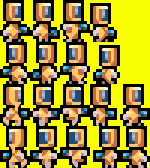
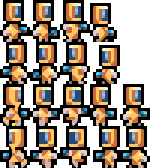
updated player sprites to be transparent

diff --git a/main.py b/main.py
@@ -57,28 +57,28 @@ class Player(pygame.sprite.Sprite):
             
         self.sprites = SpriteSheet("resources/player.png")
     
-        self.stillRight = self.sprites.image_at((0, 0, 30, 42), colorkey = (250, 255, 0))
-        self.stillLeft = self.sprites.image_at((0, 42, 30, 42), colorkey = (250, 255, 0))
+        self.stillRight = self.sprites.image_at((0, 0, 30, 42))
+        self.stillLeft = self.sprites.image_at((0, 42, 30, 42))
     
-        self.runningRight = (self.sprites.image_at((0, 84, 30, 42), colorkey = (250, 255, 0)),
-                    self.sprites.image_at((30, 84, 30, 42), colorkey = (250, 255, 0)),
-                    self.sprites.image_at((60, 84, 30, 42), colorkey = (250, 255, 0)),
-                    self.sprites.image_at((90, 84, 30, 42), colorkey = (250, 255, 0)),
-                    self.sprites.image_at((120, 84, 30, 42), colorkey = (250, 255, 0)))
+        self.runningRight = (self.sprites.image_at((0, 84, 30, 42)),
+                    self.sprites.image_at((30, 84, 30, 42)),
+                    self.sprites.image_at((60, 84, 30, 42)),
+                    self.sprites.image_at((90, 84, 30, 42)),
+                    self.sprites.image_at((120, 84, 30, 42)))
 
-        self.runningLeft = (self.sprites.image_at((0, 126, 30, 42), colorkey = (250, 255, 0)),
-                    self.sprites.image_at((30, 126, 30, 42), colorkey = (250, 255, 0)),
-                    self.sprites.image_at((60, 126, 30, 42), colorkey = (250, 255, 0)),
-                    self.sprites.image_at((90, 126, 30, 42), colorkey = (250, 255, 0)),
-                    self.sprites.image_at((120, 126, 30, 42), colorkey = (250, 255, 0)))
+        self.runningLeft = (self.sprites.image_at((0, 126, 30, 42)),
+                    self.sprites.image_at((30, 126, 30, 42)),
+                    self.sprites.image_at((60, 126, 30, 42)),
+                    self.sprites.image_at((90, 126, 30, 42)),
+                    self.sprites.image_at((120, 126, 30, 42)))
                     
-        self.jumpingRight = (self.sprites.image_at((30, 0, 30, 42), colorkey = (250, 255, 0)),
-                    self.sprites.image_at((60, 0, 30, 42), colorkey = (250, 255, 0)),
-                    self.sprites.image_at((90, 0, 30, 42), colorkey = (250, 255, 0)))
+        self.jumpingRight = (self.sprites.image_at((30, 0, 30, 42)),
+                    self.sprites.image_at((60, 0, 30, 42)),
+                    self.sprites.image_at((90, 0, 30, 42)))
 
-        self.jumpingLeft = (self.sprites.image_at((30, 42, 30, 42), colorkey = (250, 255, 0)),
-                    self.sprites.image_at((60, 42, 30, 42), colorkey = (250, 255, 0)),
-                    self.sprites.image_at((90, 42, 30, 42), colorkey = (250, 255, 0)))
+        self.jumpingLeft = (self.sprites.image_at((30, 42, 30, 42)),
+                    self.sprites.image_at((60, 42, 30, 42)),
+                    self.sprites.image_at((90, 42, 30, 42)))
         
         self.image = self.stillRight
         
@@ -227,25 +227,13 @@ class Tile(pygame.sprite.Sprite):
 
 class SpriteSheet(object):
     def __init__(self, fileName):
-        self.sheet = pygame.image.load(fileName).convert()
+        self.sheet = pygame.image.load(fileName)
 
-    def image_at(self, rectangle, colorkey = None):
+    def image_at(self, rectangle):
         rect = pygame.Rect(rectangle)
-        image = pygame.Surface(rect.size).convert()
+        image = pygame.Surface(rect.size, pygame.SRCALPHA, 32).convert_alpha()
         image.blit(self.sheet, (0, 0), rect)
-        if colorkey is not None:
-            if colorkey is -1:
-                colorkey = image.get_at((0,0))
-            image.set_colorkey(colorkey, pygame.RLEACCEL)
         return image
-
-    def images_at(self, rects, colorkey = None):
-        return [self.image_at(rect, colorkey) for rect in rects]
-
-    def load_strip(self, rect, image_count, colorkey = None):
-        tups = [(rect[0]+rect[2]*x, rect[1], rect[2], rect[3])
-                for x in range(image_count)]
-        return self.images_at(tups, colorkey)
         
 def main():
     pygame.init()
